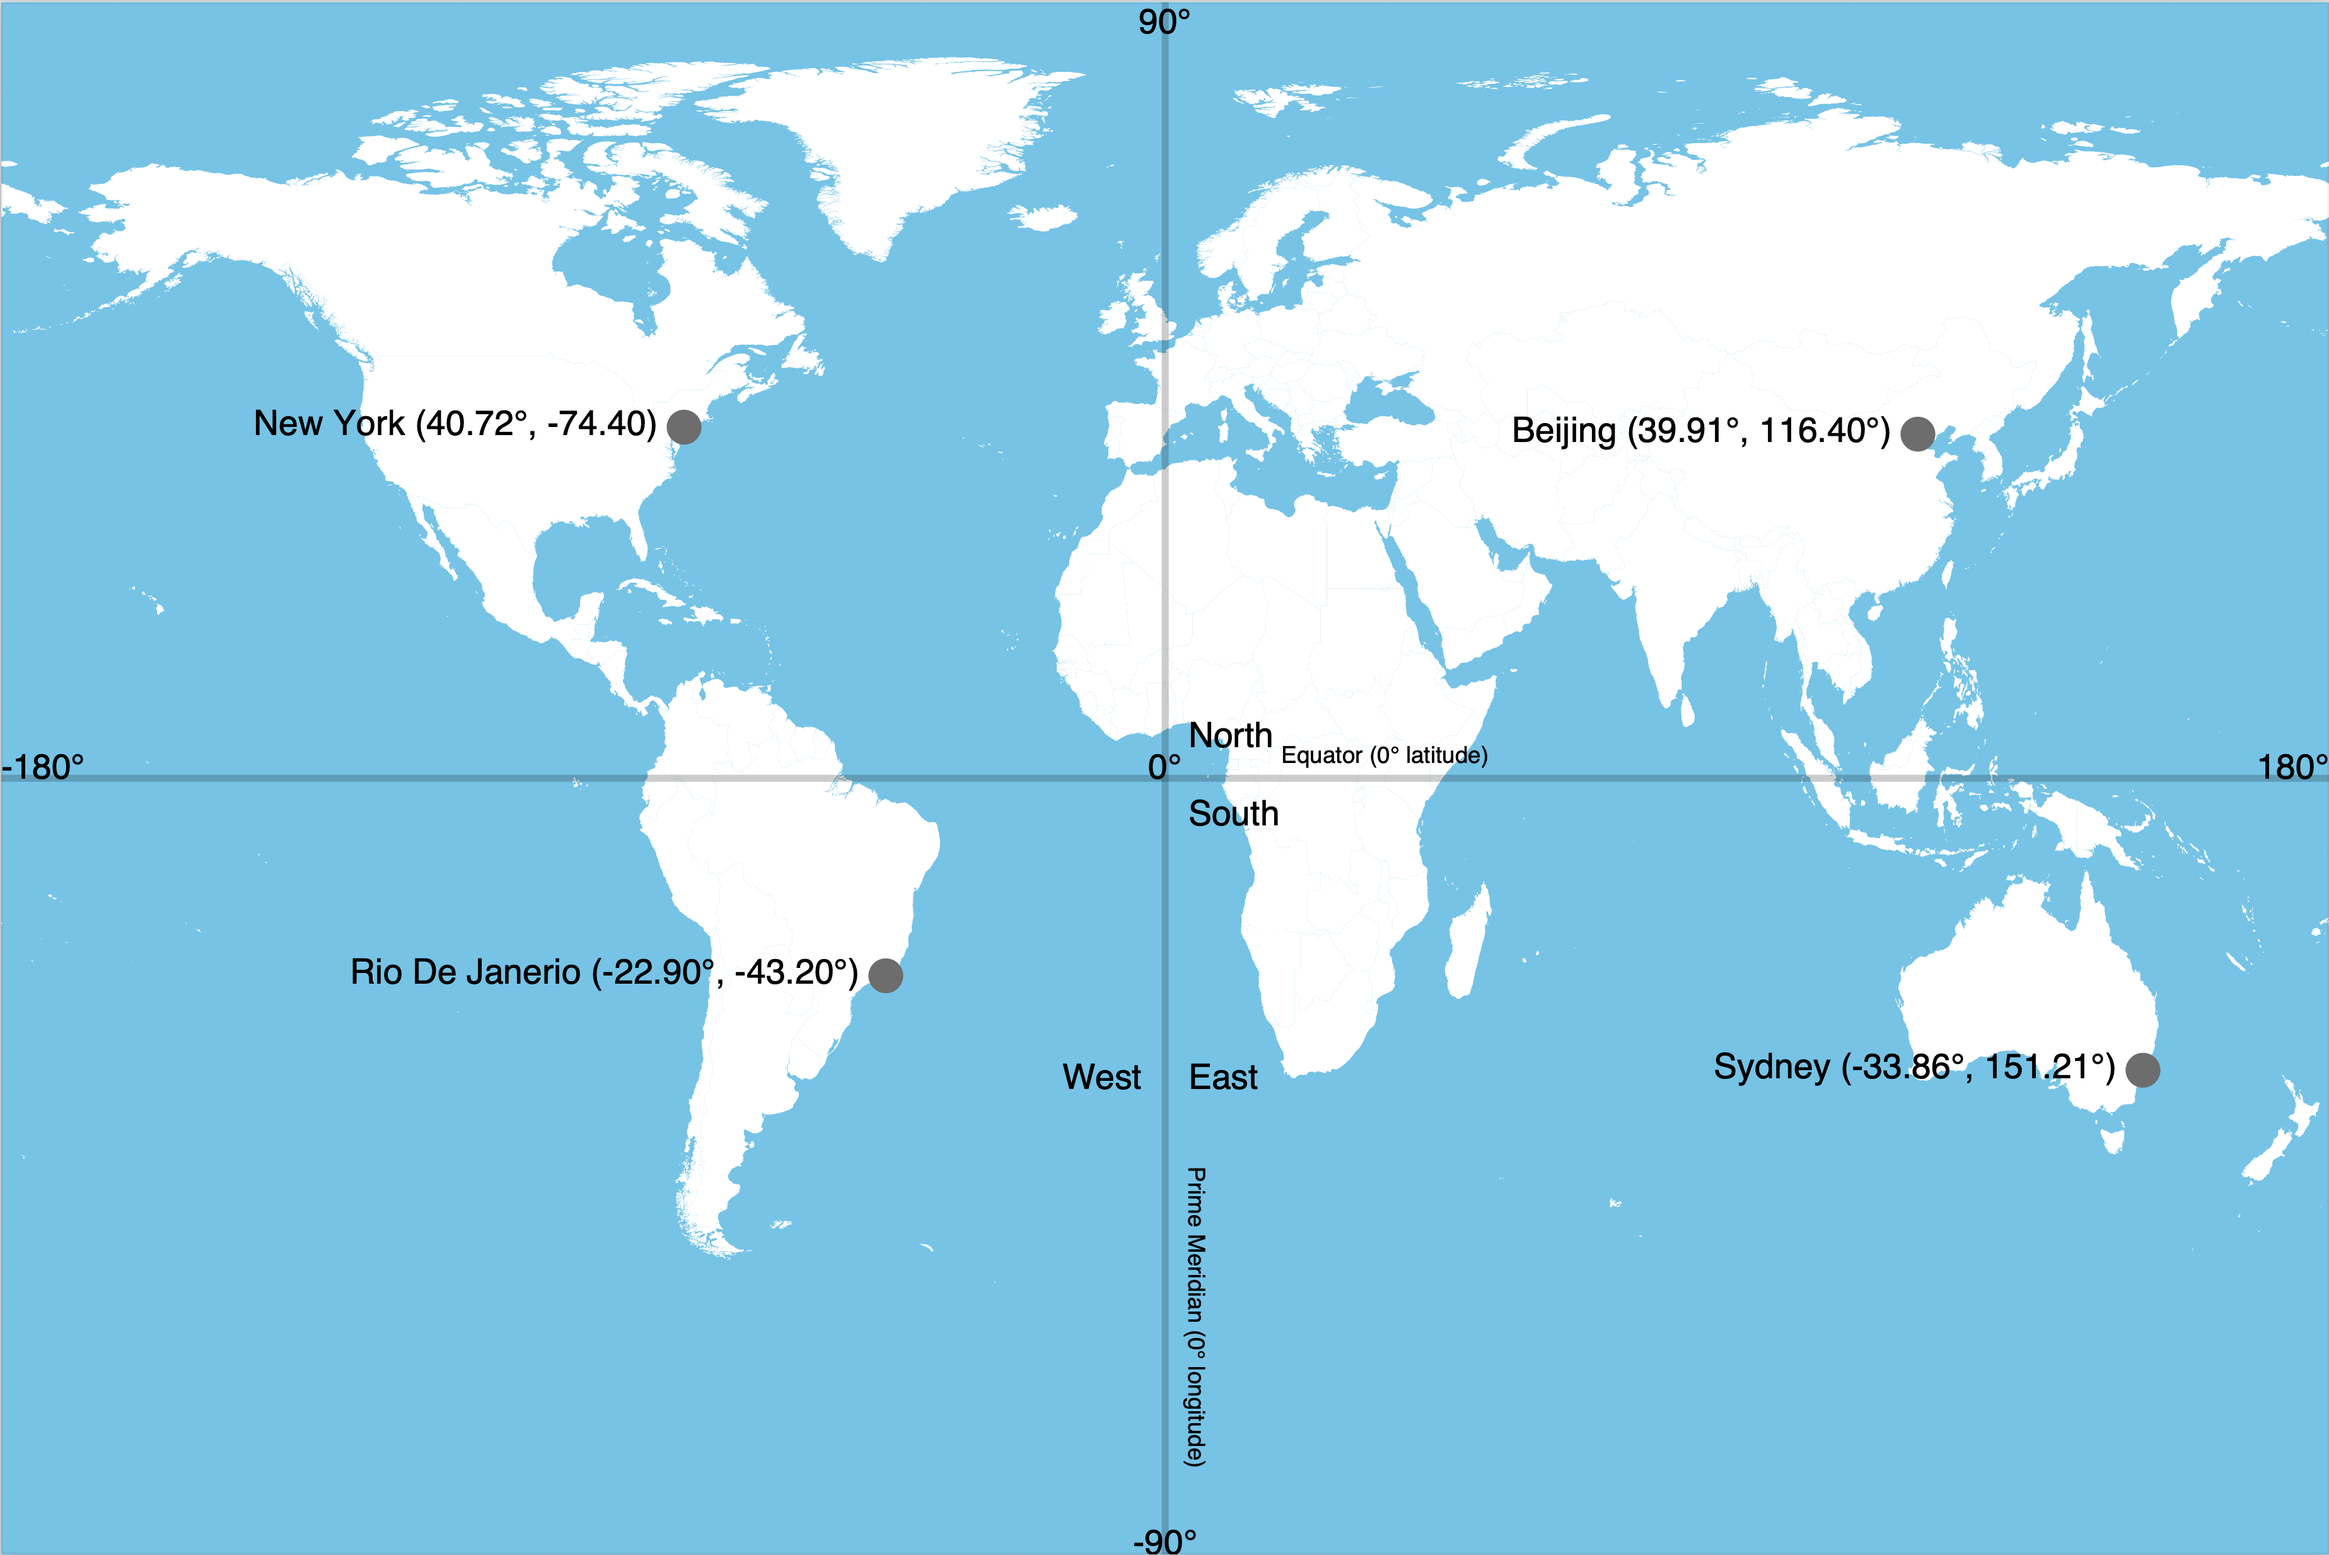
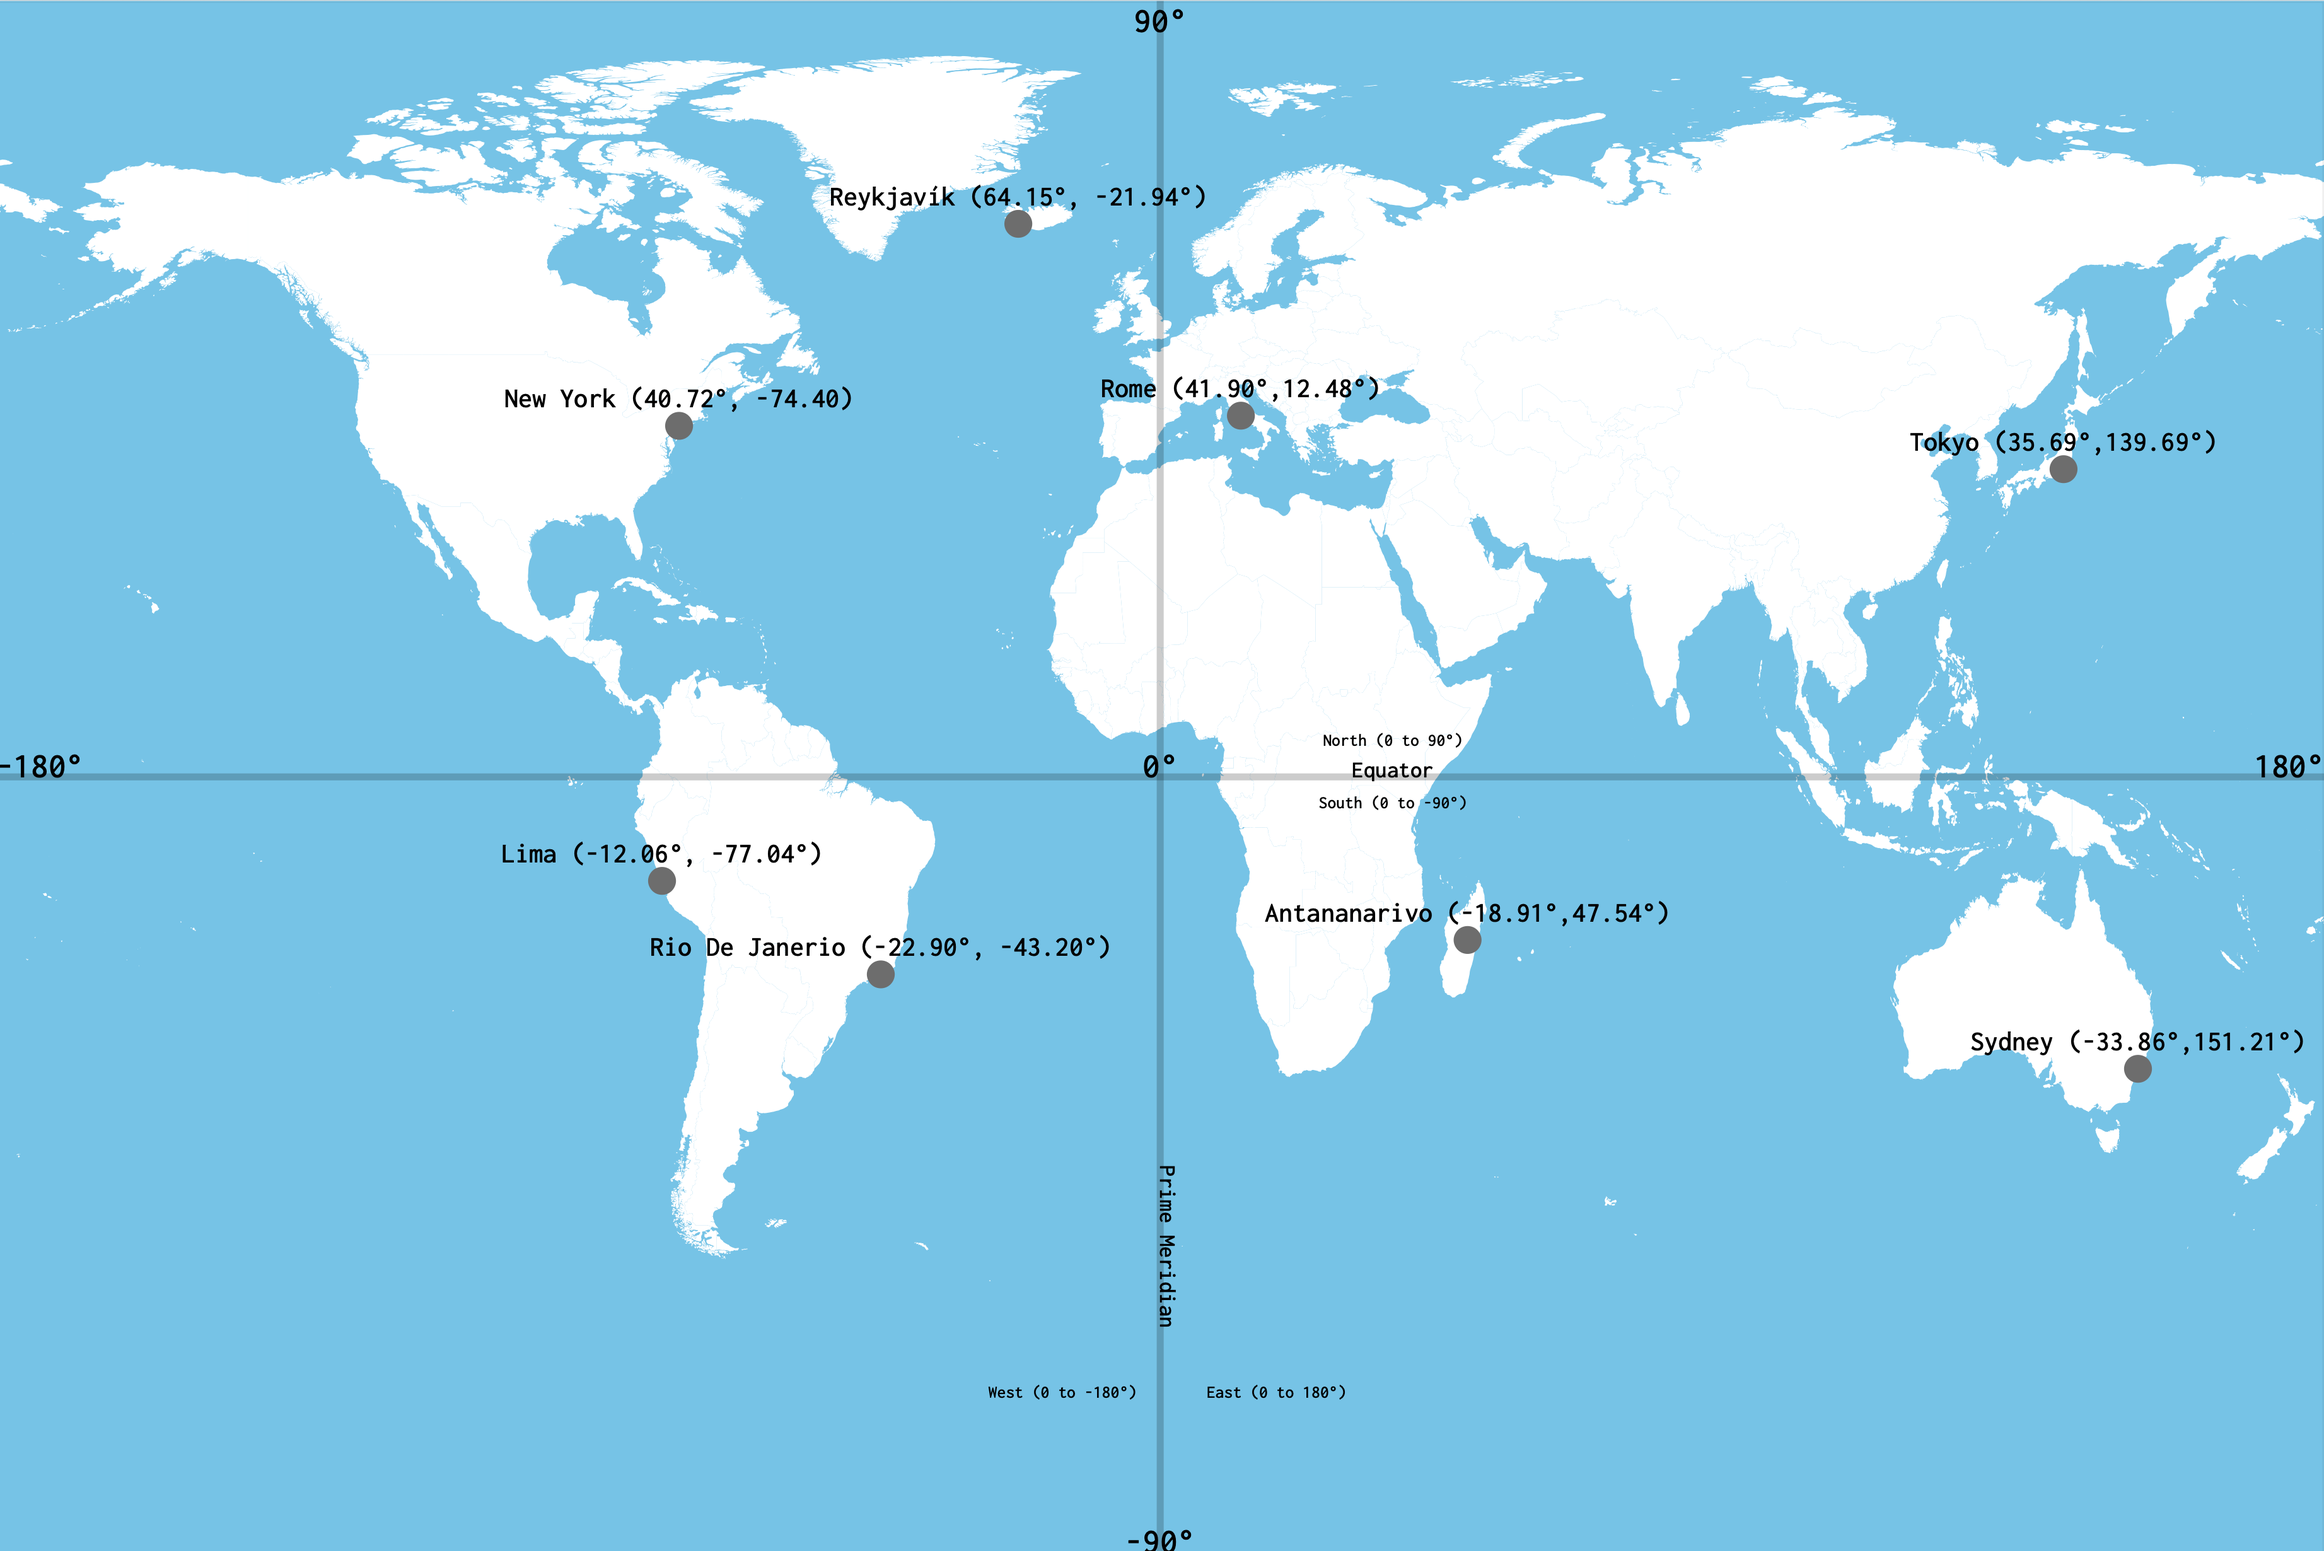
version 2025-07-27-1.2.0: specify indivdual geo coordinates

diff --git a/generate.go b/generate.go
@@ -651,7 +651,7 @@ func geopoly(w io.Writer, s []string, linenumber int) error {
 	if err := validNumber(s[2], s[3], s[4], s[5]); err != nil {
 		return err
 	}
-	kml, err := readKMLData(unquote(s[1]))
+	kml, err := readKMLData(unquote(eval(s[1])))
 	if err != nil {
 		return err
 	}
@@ -676,7 +676,7 @@ func geoline(w io.Writer, s []string, linenumber int) error {
 	if err := validNumber(s[2], s[3], s[4], s[5]); err != nil {
 		return fmt.Errorf("line %d: %v: %v", linenumber, err, s)
 	}
-	kml, err := readKMLData(unquote(s[1]))
+	kml, err := readKMLData(unquote(eval(s[1])))
 	if err != nil {
 		return err
 	}
@@ -700,6 +700,22 @@ func geoline(w io.Writer, s []string, linenumber int) error {
 	return nil
 }
 
+// opencoords reads coordinates and labels from a file, or
+// as an individual string with special formatting: the first character must be '+' or '-'
+func opencoords(s string) (io.Reader, error) {
+	var r io.Reader
+	var err error
+	if len(s) > 3 && (s[0] == '+' || s[0] == '-') {
+		r = strings.NewReader(s)
+	} else {
+		r, err = os.Open(s)
+		if err != nil {
+			return r, err
+		}
+	}
+	return r, nil
+}
+
 // geoloc makes dot and label with alighnment
 func geoloc(w io.Writer, s []string, linenumber int) error {
 	n := len(s)
@@ -709,7 +725,7 @@ func geoloc(w io.Writer, s []string, linenumber int) error {
 	if err := validNumber(s[2], s[3], s[4], s[5]); err != nil {
 		return fmt.Errorf("line %d: %v: %v", linenumber, err, s)
 	}
-	r, err := os.Open(unquote(s[1]))
+	r, err := opencoords(unquote(eval(s[1])))
 	if err != nil {
 		return err
 	}
@@ -718,7 +734,6 @@ func geoloc(w io.Writer, s []string, linenumber int) error {
 		return err
 	}
 	loc, err := readLoc(r, locsep)
-	defer r.Close()
 	x := loc.X
 	y := loc.Y
 	x, y = mapData(x, y, m)
@@ -756,7 +771,7 @@ func geolabel(w io.Writer, s []string, linenumber int) error {
 	if err := validNumber(s[2], s[3], s[4], s[5]); err != nil {
 		return fmt.Errorf("line %d: %v: %v", linenumber, err, s)
 	}
-	r, err := os.Open(unquote(s[1]))
+	r, err := opencoords(unquote(eval(s[1])))
 	if err != nil {
 		return err
 	}
@@ -765,7 +780,6 @@ func geolabel(w io.Writer, s []string, linenumber int) error {
 		return err
 	}
 	loc, err := readLoc(r, locsep)
-	defer r.Close()
 	x := loc.X
 	y := loc.Y
 	x, y = mapData(x, y, m)
@@ -794,7 +808,7 @@ func geopoint(w io.Writer, s []string, linenumber int) error {
 	if err := validNumber(s[2], s[3], s[4], s[5]); err != nil {
 		return fmt.Errorf("line %d: %v: %v", linenumber, err, s)
 	}
-	r, err := os.Open(unquote(s[1]))
+	r, err := opencoords(unquote(eval(s[1])))
 	if err != nil {
 		return err
 	}
@@ -803,7 +817,6 @@ func geopoint(w io.Writer, s []string, linenumber int) error {
 		return err
 	}
 	loc, err := readLoc(r, locsep)
-	defer r.Close()
 	x := loc.X
 	y := loc.Y
 	x, y = mapData(x, y, m)

diff --git a/decksh.go b/decksh.go
@@ -15,7 +15,7 @@ const (
 )
 
 // emap is the id=expression map
-var emap = map[string]string{"deckshVersion": `"2025-07-27-1.1.0"`}
+var emap = map[string]string{"deckshVersion": `"2025-07-27-1.2.0"`}
 
 var (
 	canvasWidth  = 792.0

diff --git a/README.md b/README.md
@@ -14,7 +14,7 @@
 go get github.com/ajstarks/decksh                        # install the package
 go install github.com/ajstarks/decksh/cmd/decksh@latest  # install the decksh command
 ```
-The current version is 2025-07-27-1.1.0
+The current version is 2025-07-27-1.2.0
 
 ## References and Examples
 
@@ -1143,6 +1143,7 @@ The Equator is at 0° latitude; latitudes to the north of the Equator are positi
 
 The Prime Meridian is 0° longitude; longitudes to the east of this point are positive, longitudes to the west are negative.
 
+
 ![latlong](images/latlong.png)
 
 Appropriate KML files may be obtained from the [opendatasoft site](https://public.opendatasoft.com/explore/dataset/world-administrative-boundaries/export/)
@@ -1165,7 +1166,7 @@ geoline "file.kml" latmin latmax longmin longmax linewidth [color]
 ```
 ## Labels
 
-Reading from the specified file, place text according to the latitude and longitude. The fields in the file are tab-separated latitude, longitide, and label.
+Reading from the specified file, or geo coordinate string, place text according to the latitude and longitude. The fields in the file are tab-separated latitude, longitide, and label. 
 
 For example:
 ```
@@ -1178,6 +1179,13 @@ For example:
 33.2232 43.6793 Iraq
 34.0000 09.0000 Tunisia
 ```
+
+Individual coordinates may be specified with a string like this:
+
+```
+"+26.3351   17.2283 Libya"
+```
+The string must begin with a '+' or '-'
 
 ```
 geolabel "file.d" latmin latmax longmin longmax [size] [font] [color] [op]
